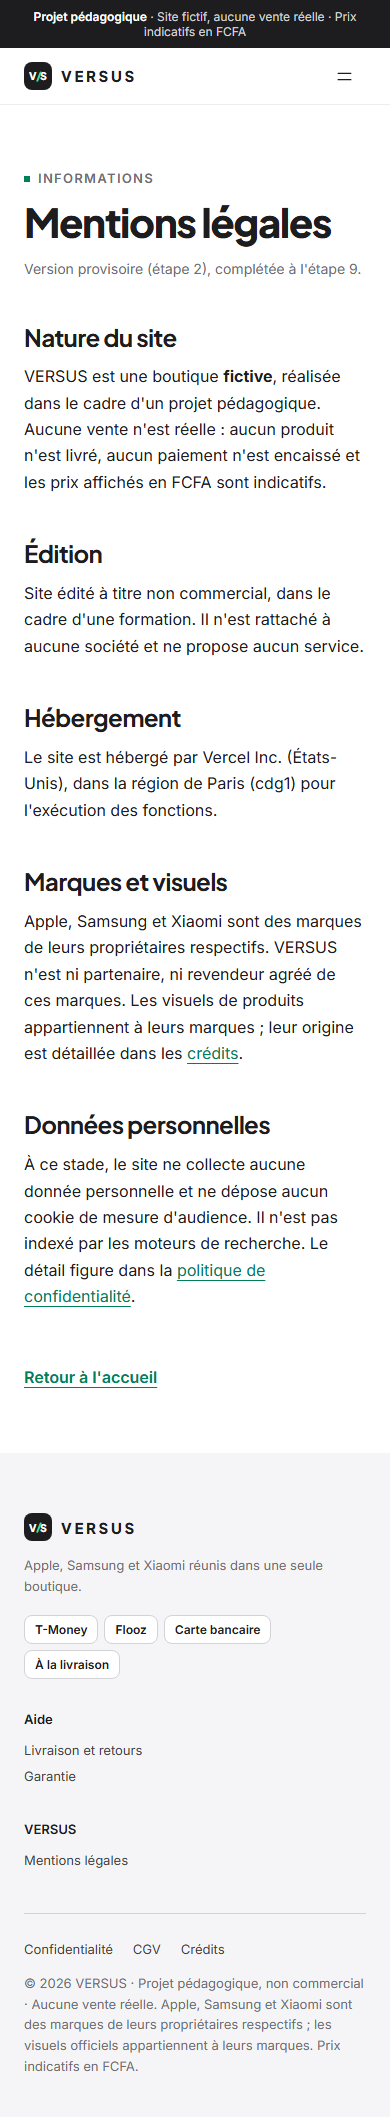
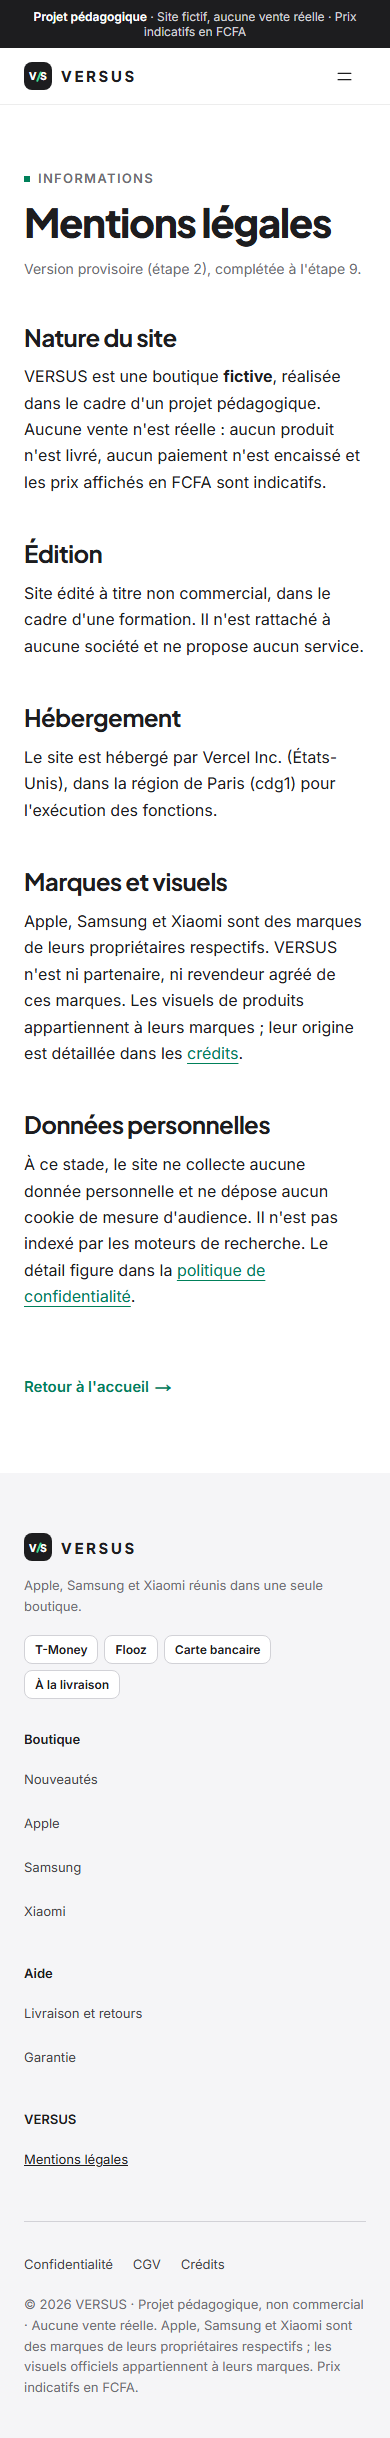
docs(fidelite): régénérer les captures de l'en-tête et du pied de page
01-en-tete.png, 01-menu-mobile.png, 11-pied-de-page.png et pleine-page.png dataient de l'étape 2 : sans navigation principale ni colonne Boutique. Captures refaites avec npm run capture:gabarit sur le build de l'étape 3 ; lignes En-tête et Pied de page de la fiche de fidélité revues (redirection temporaire des marques vers /boutique).

diff --git a/docs/fidelite-maquette.md b/docs/fidelite-maquette.md
@@ -6,23 +6,25 @@ la maquette (`docs/maquette/captures/<largeur>/`), capture de l'implémentation
 du registre (`docs/ecarts-maquette.md`).
 
 Captures de l'implémentation : `npm run capture:accueil` le 17 novembre 2026, build de production,
-`VS_TODAY=2026-11-12`, mouvement réduit (première diapositive, sans défilement automatique).
+`VS_TODAY=2026-11-12`, mouvement réduit (première diapositive, sans défilement automatique). En-tête,
+menu mobile et pied de page : `npm run capture:gabarit` (page `/mentions-legales`), même build et
+même date.
 Régression visuelle : `e2e/visuel.spec.ts` (références `e2e/visuel.spec.ts-snapshots/`, procédure
 dans `docs/audits/visuel.md`).
 
-| Section                | Captures (1440 et 390)             | Implémentation                                                                                                                                                                                                              | Statut                                               |
-| ---------------------- | ---------------------------------- | --------------------------------------------------------------------------------------------------------------------------------------------------------------------------------------------------------------------------- | ---------------------------------------------------- |
-| En-tête                | `01-en-tete.png`                   | Gabarit de l'étape 2 ; icônes et navigation pilotées par `routeFor()`                                                                                                                                                       | Conforme ; E5, E8 à E10                              |
-| Hero                   | `02-hero.png`                      | Trois diapositives (ip18, gw9, rn15), dégradés, halo, anneau et flottement de la maquette ; points à barre de progression, flèches, bouton lecture/pause ; une colonne centrée sous 901 px (820 px de haut), 680 px au-delà | Conforme ; puce « Nouveau » retirée (§4.5, E3) ; E23 |
-| Catégories             | `03-categories.png`                | Pastilles de 92 px (68 px sur mobile), pictogrammes de 34 px, centrées ; catégories vers `/boutique#…`, « Comparer » vers `/#comparer`                                                                                      | Conforme ; E24                                       |
-| Tuiles promotionnelles | `04-tuiles.png`                    | Galaxy A57 en pleine largeur, puis AirPods 5, Galaxy Buds 4, Apple Watch Series 12, Redmi Watch 6 ; couleurs, surtitres et boutons de la maquette ; « Acheter » vers la fiche                                               | E16 (tuile iPhone) ; E20 (hauteurs)                  |
-| Section épinglée       | `05-pin.png` (maquette seulement)  | Supprimée, son titre « iPhone, Galaxy ou Redmi ? » est repris par le comparateur                                                                                                                                            | E16, validé (D5)                                     |
-| Nouveautés             | `06-nouveautes.png`                | Filtres de marque (`PillGroup`) et rail à flèches (`aria-disabled` aux extrémités, clavier, défilement d'une carte) ; cartes de 300 px, visuels de 220 px                                                                   | Conforme                                             |
-| Univers de marque      | `07-marques.png`                   | Cartes de 520 px, textes et couleurs de la maquette ; visuels Apple Watch, Galaxy Buds, Redmi Watch ; lien vers `/boutique` (puis `/marques/[marque]` à l'étape 4)                                                          | E17, validé (D5)                                     |
-| Comparateur            | `08-comparateur.png`               | Onglets de famille (Smartphones par défaut), vrai `<table>` de six lignes clés déclarées dans `lib/compare/rows.ts`, couleurs de marque, note de sélection ; « Voir le produit » vers la fiche                              | E19, validé (D5) ; E22                               |
-| Quiz                   | `09-quiz.png` (maquette seulement) | `QuizTeaser` prêt (question 1, formulaire GET vers `/aide-au-choix`), absent de l'accueil jusqu'à l'étape 5 ; aperçu non soumis dans `/styleguide`                                                                          | E18, validé (D5)                                     |
-| Réassurance            | `10-reassurance.png`               | Grille `.assur` de la maquette : 4, 2 puis 1 colonne, icônes de 48 px, textes de la maquette (paiement simulé)                                                                                                              | Conforme                                             |
-| Pied de page           | `11-pied-de-page.png`              | Gabarit de l'étape 2                                                                                                                                                                                                        | Conforme ; E11 à E15                                 |
+| Section                | Captures (1440 et 390)                        | Implémentation                                                                                                                                                                                                                                                                                                          | Statut                                               |
+| ---------------------- | --------------------------------------------- | ----------------------------------------------------------------------------------------------------------------------------------------------------------------------------------------------------------------------------------------------------------------------------------------------------------------------- | ---------------------------------------------------- |
+| En-tête                | `01-en-tete.png` ; `01-menu-mobile.png` (390) | Bandeau, logo et navigation principale de l'étape 3 : marques vers `/boutique` (redirection temporaire, `/marques/[marque]` à l'étape 4), catégories vers `/boutique#…` ; groupe « Comparer, Aide au choix » et icônes masqués tant que leurs routes manquent ; menu mobile (≤ 900 px) avec marques, catégories et aide | Conforme ; E5, E8 à E10                              |
+| Hero                   | `02-hero.png`                                 | Trois diapositives (ip18, gw9, rn15), dégradés, halo, anneau et flottement de la maquette ; points à barre de progression, flèches, bouton lecture/pause ; une colonne centrée sous 901 px (820 px de haut), 680 px au-delà                                                                                             | Conforme ; puce « Nouveau » retirée (§4.5, E3) ; E23 |
+| Catégories             | `03-categories.png`                           | Pastilles de 92 px (68 px sur mobile), pictogrammes de 34 px, centrées ; catégories vers `/boutique#…`, « Comparer » vers `/#comparer`                                                                                                                                                                                  | Conforme ; E24                                       |
+| Tuiles promotionnelles | `04-tuiles.png`                               | Galaxy A57 en pleine largeur, puis AirPods 5, Galaxy Buds 4, Apple Watch Series 12, Redmi Watch 6 ; couleurs, surtitres et boutons de la maquette ; « Acheter » vers la fiche                                                                                                                                           | E16 (tuile iPhone) ; E20 (hauteurs)                  |
+| Section épinglée       | `05-pin.png` (maquette seulement)             | Supprimée, son titre « iPhone, Galaxy ou Redmi ? » est repris par le comparateur                                                                                                                                                                                                                                        | E16, validé (D5)                                     |
+| Nouveautés             | `06-nouveautes.png`                           | Filtres de marque (`PillGroup`) et rail à flèches (`aria-disabled` aux extrémités, clavier, défilement d'une carte) ; cartes de 300 px, visuels de 220 px                                                                                                                                                               | Conforme                                             |
+| Univers de marque      | `07-marques.png`                              | Cartes de 520 px, textes et couleurs de la maquette ; visuels Apple Watch, Galaxy Buds, Redmi Watch ; lien vers `/boutique` (puis `/marques/[marque]` à l'étape 4)                                                                                                                                                      | E17, validé (D5)                                     |
+| Comparateur            | `08-comparateur.png`                          | Onglets de famille (Smartphones par défaut), vrai `<table>` de six lignes clés déclarées dans `lib/compare/rows.ts`, couleurs de marque, note de sélection ; « Voir le produit » vers la fiche                                                                                                                          | E19, validé (D5) ; E22                               |
+| Quiz                   | `09-quiz.png` (maquette seulement)            | `QuizTeaser` prêt (question 1, formulaire GET vers `/aide-au-choix`), absent de l'accueil jusqu'à l'étape 5 ; aperçu non soumis dans `/styleguide`                                                                                                                                                                      | E18, validé (D5)                                     |
+| Réassurance            | `10-reassurance.png`                          | Grille `.assur` de la maquette : 4, 2 puis 1 colonne, icônes de 48 px, textes de la maquette (paiement simulé)                                                                                                                                                                                                          | Conforme                                             |
+| Pied de page           | `11-pied-de-page.png`                         | Colonnes Boutique (Nouveautés et marques vers `/boutique`, redirection temporaire), Aide et VERSUS ; liens des routes à venir masqués ; liens légaux au-dessus des mentions                                                                                                                                             | Conforme ; E11 à E15                                 |
 
 ## Critères mesurés de l'étape 3
 
